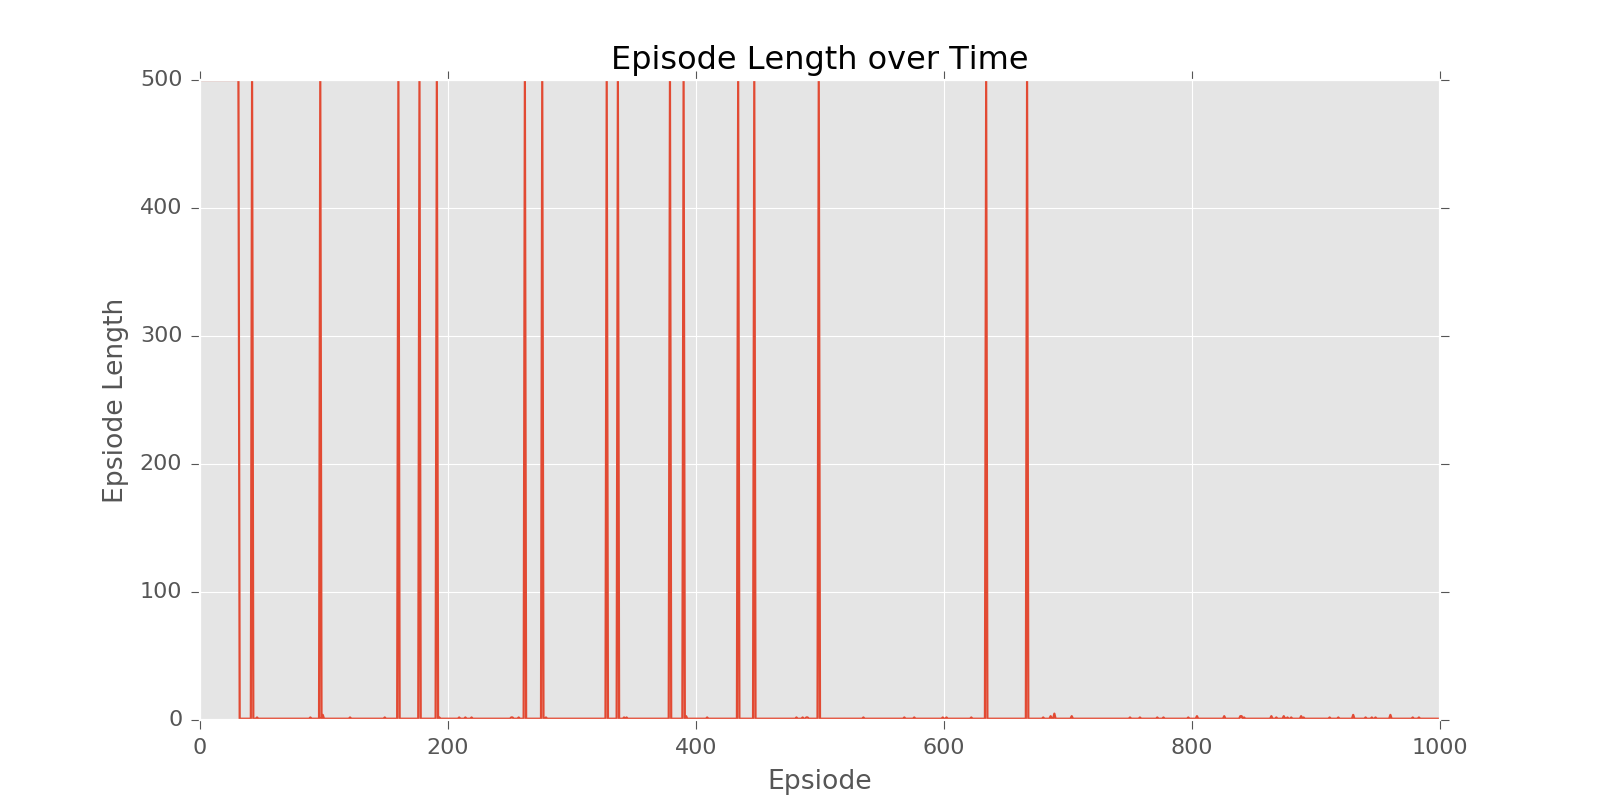
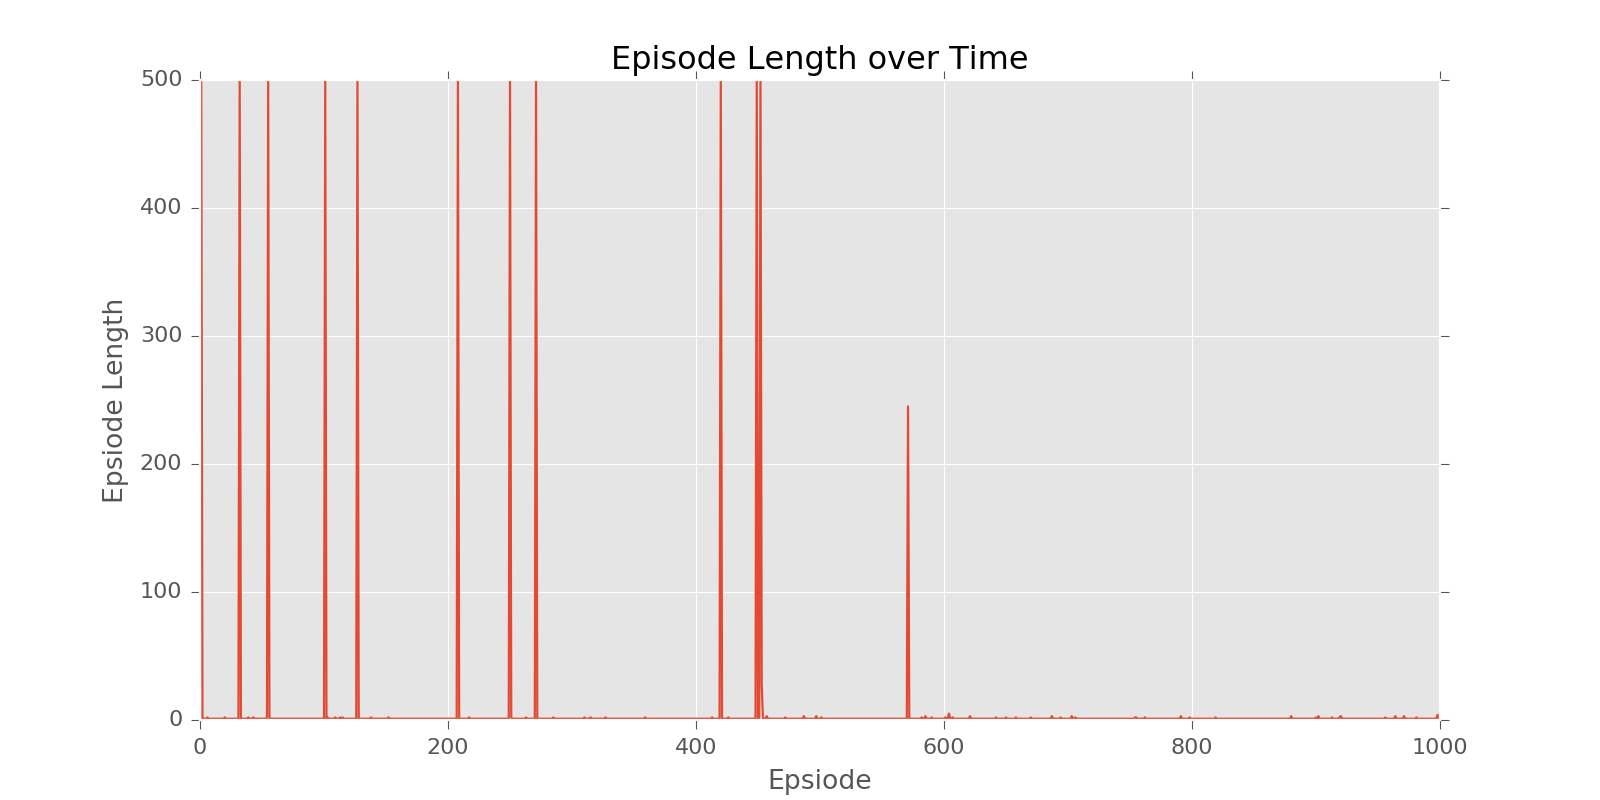
Instead of 10, use 5 as smoothed window

Changed region(s): [[0.125, 0.0938, 0.3438, 0.9062], [0.375, 0.0938, 0.5, 0.9062], [0.5625, 0.7812, 0.6562, 0.9062]]

diff --git a/g_learning/G-Learning.py b/g_learning/G-Learning.py
@@ -163,13 +163,13 @@ if __name__ == "__main__":
 
     # Should test with k in {1e-3, 1e-4, 5*1e-5, 1e-6}
     env = CliffWalkingEnv()
-    agent = GLearningAgent(env, k=1e-4) 
+    agent = GLearningAgent(env, k=1e-3) 
     G, stats = agent.g_learning(num_episodes=1000,
                                 max_ep_steps=500,
                                 discount=0.95,
                                 epsilon=0.1)
     plotting.plot_episode_stats(stats,
-                                smoothing_window=10,
+                                smoothing_window=5,
                                 noshow=False,
                                 figdir="figures/cliff_",
                                 dosave=True)
